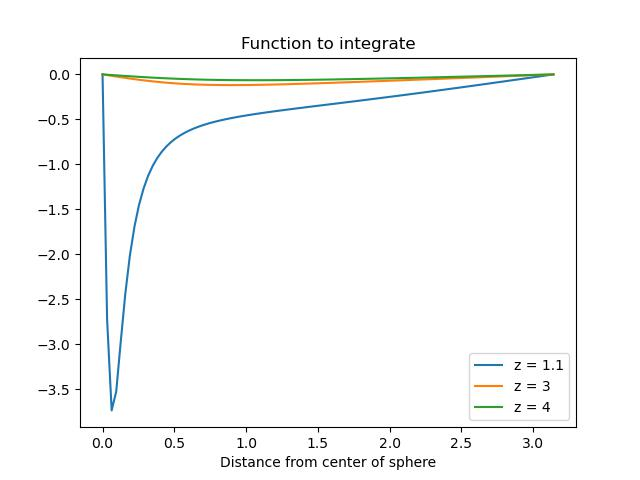
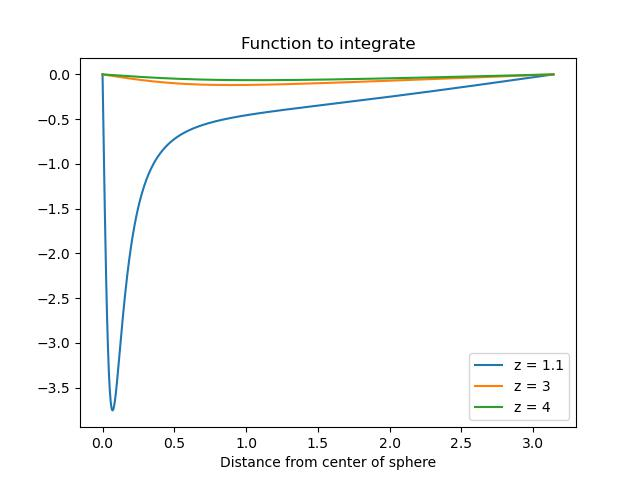
finished assignment (i think?)

diff --git a/Assignment 2/a2_q1.py b/Assignment 2/a2_q1.py
@@ -43,7 +43,7 @@ def to_int(theta, z):
 
 
 # Plotting the function to integrate
-x = np.linspace(0, np.pi, 100)
+x = np.linspace(0, np.pi, 1001)
 y2 = to_int(x, 1.1)
 y3 = to_int(x, 3)
 y4 = to_int(x, 4)

diff --git a/Assignment 2/Assignment_2.md b/Assignment 2/Assignment_2.md
@@ -30,9 +30,26 @@ We then coded this function and passed it in both our own integrator and in `sci
 
 The curves given by the two integrators are basically indistinguishable.
 
-The integration was done on the $[0, \pi]$ range for `integrate.quad`, but 
+The integration was done on the $[0, \pi]$ range for `integrate.quad`, but we used $(0, \pi]$ for the `intergrate_adaptive` function. This is because our custom function does not deal with the discontinuity/singularity at $z=1$ well, however `integrate.quad` does not have any problems with it. We used the following functions for this:
 
-We see that as we get further away from the source in the positive axis we get pulled back towards it and similarly for the negative direction. When we are dead at the center of the ring, the symmetry creates a 0 field.
+```python
+def to_int(theta, z):
+    # Function to integrate. Without loss of generality we rescale it by making the coefficient 1.
+    coeff = 1 #2*np.pi*R**2*sigma/(4*np.pi*cons.epsilon_0)
+    return -coeff*(z-R*np.cos(theta))*np.sin(theta)/(R**2 + z**2 - 2*R*z*np.cos(theta))**(3/2)
+
+def efield_quad(z):
+    '''Function that integrates the above function for a given z. Done with quad.'''
+    temp_func = lambda theta : to_int(theta, z) # Anonymous function
+    return integrate.quad(temp_func, 0, np.pi) # Integration
+
+def efield_custom(z):
+    '''Function that integrates the above function for a given z. Done with custom adaptive integrator.'''
+    temp_func = lambda theta : to_int(theta, z) # Anonymous function
+    return integrate_adaptive(temp_func, 0.00001, np.pi, 0.001) # Integration
+```
+
+Notice the 0.00001 starting bound instead of the 0 bound for the adaptive integration.
 
 ## Question 2
 
